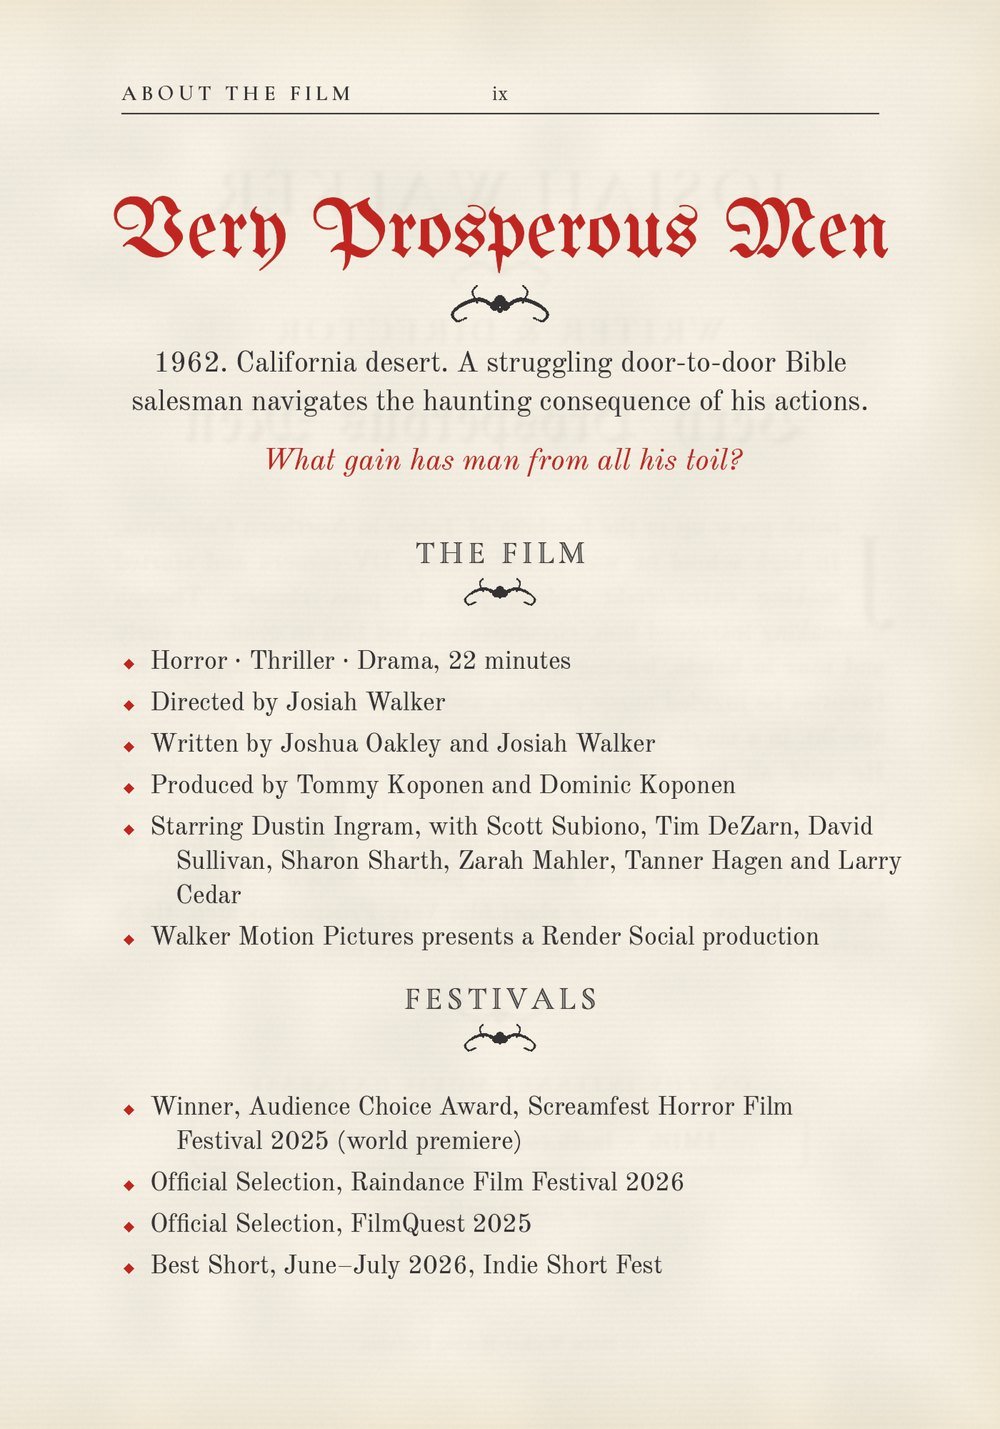
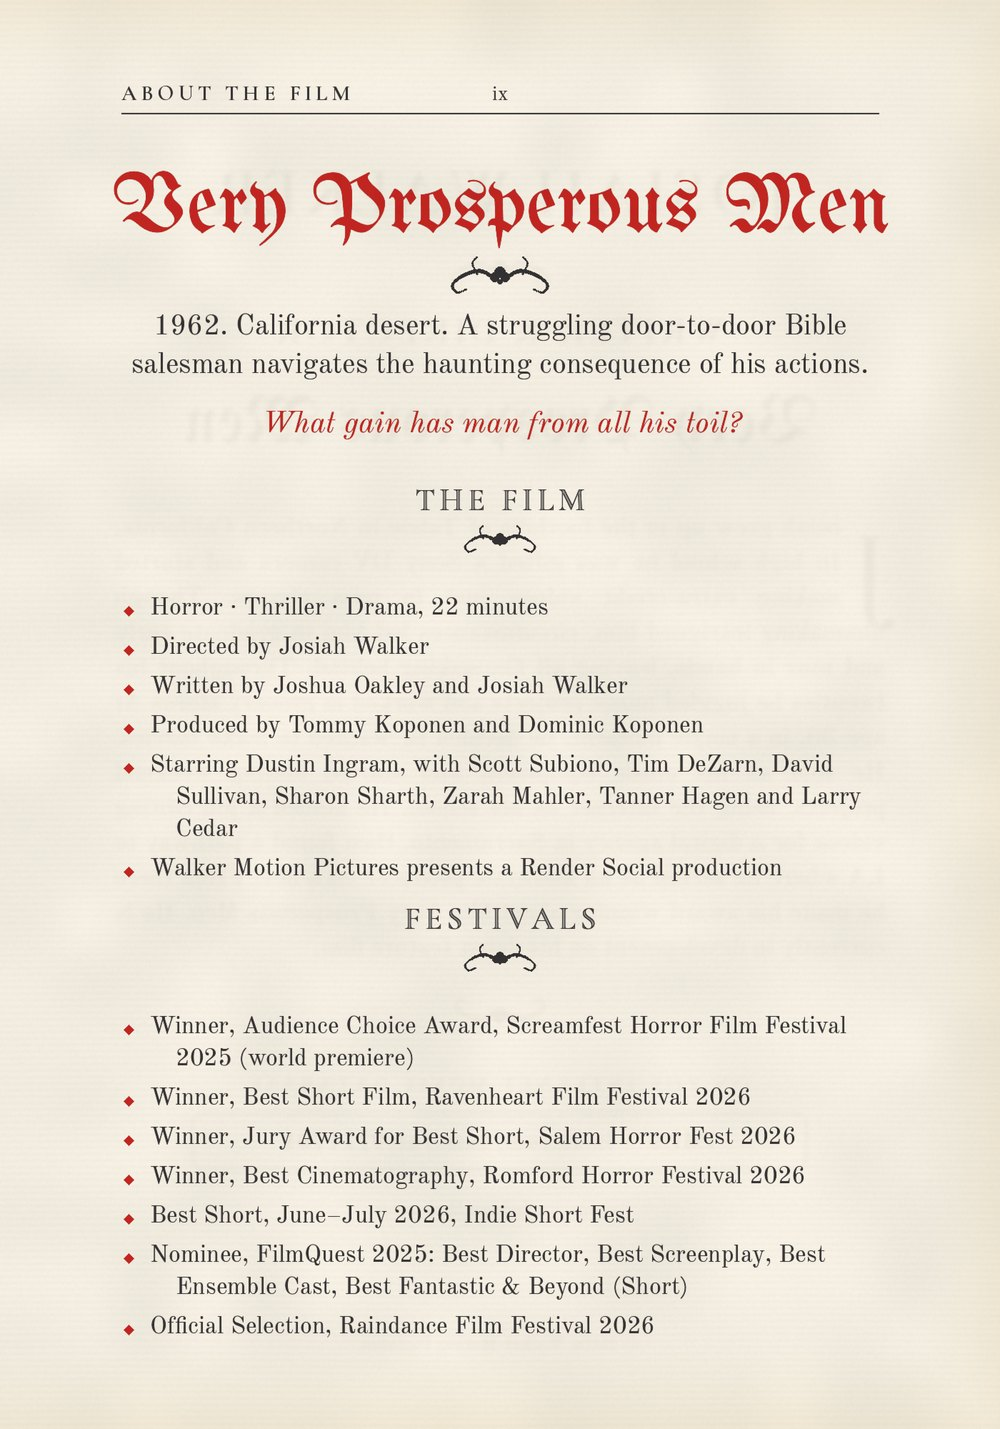
v28.5: festival wins and nominations
Claude-Session: https://claude.ai/code/session_01GM3UHFZvE1BbMYZkhuUwc1

Changed region(s): [[0.124, 0.4003, 0.899, 0.9545], [0.093, 0.1232, 0.899, 0.4311]]

diff --git a/index.html b/index.html
@@ -227,9 +227,12 @@ body:not(.tv) #cuHint { display: none; }
     <h3>Festivals</h3>
     <ul>
       <li>Winner, Audience Choice Award, Screamfest Horror Film Festival 2025 (world premiere)</li>
-      <li>Official Selection, Raindance Film Festival 2026</li>
-      <li>Official Selection, FilmQuest 2025</li>
+      <li>Winner, Best Short Film, Ravenheart Film Festival 2026</li>
+      <li>Winner, Jury Award for Best Short, Salem Horror Fest 2026</li>
+      <li>Winner, Best Cinematography, Romford Horror Festival 2026</li>
       <li>Best Short, June–July 2026, Indie Short Fest</li>
+      <li>Nominee, FilmQuest 2025: Best Director, Best Screenplay, Best Ensemble Cast, Best Fantastic &amp; Beyond (Short)</li>
+      <li>Official Selection, Raindance Film Festival 2026</li>
     </ul>
     <h3>Press</h3>
     <p>“Feature-caliber filmmaking in every frame.” <span style="font-family: var(--mono); font-size: 12px; color: var(--dim)">— Indie Short Fest jury, July 2026 · <a href="https://indieshortfest.com/2026/07/12/psychological-thriller-very-prosperous-men-named-best-short-of-june-july-2026-at-indie-short-fest/" target="_blank" rel="noopener">read the write-up ↗</a></span></p>
